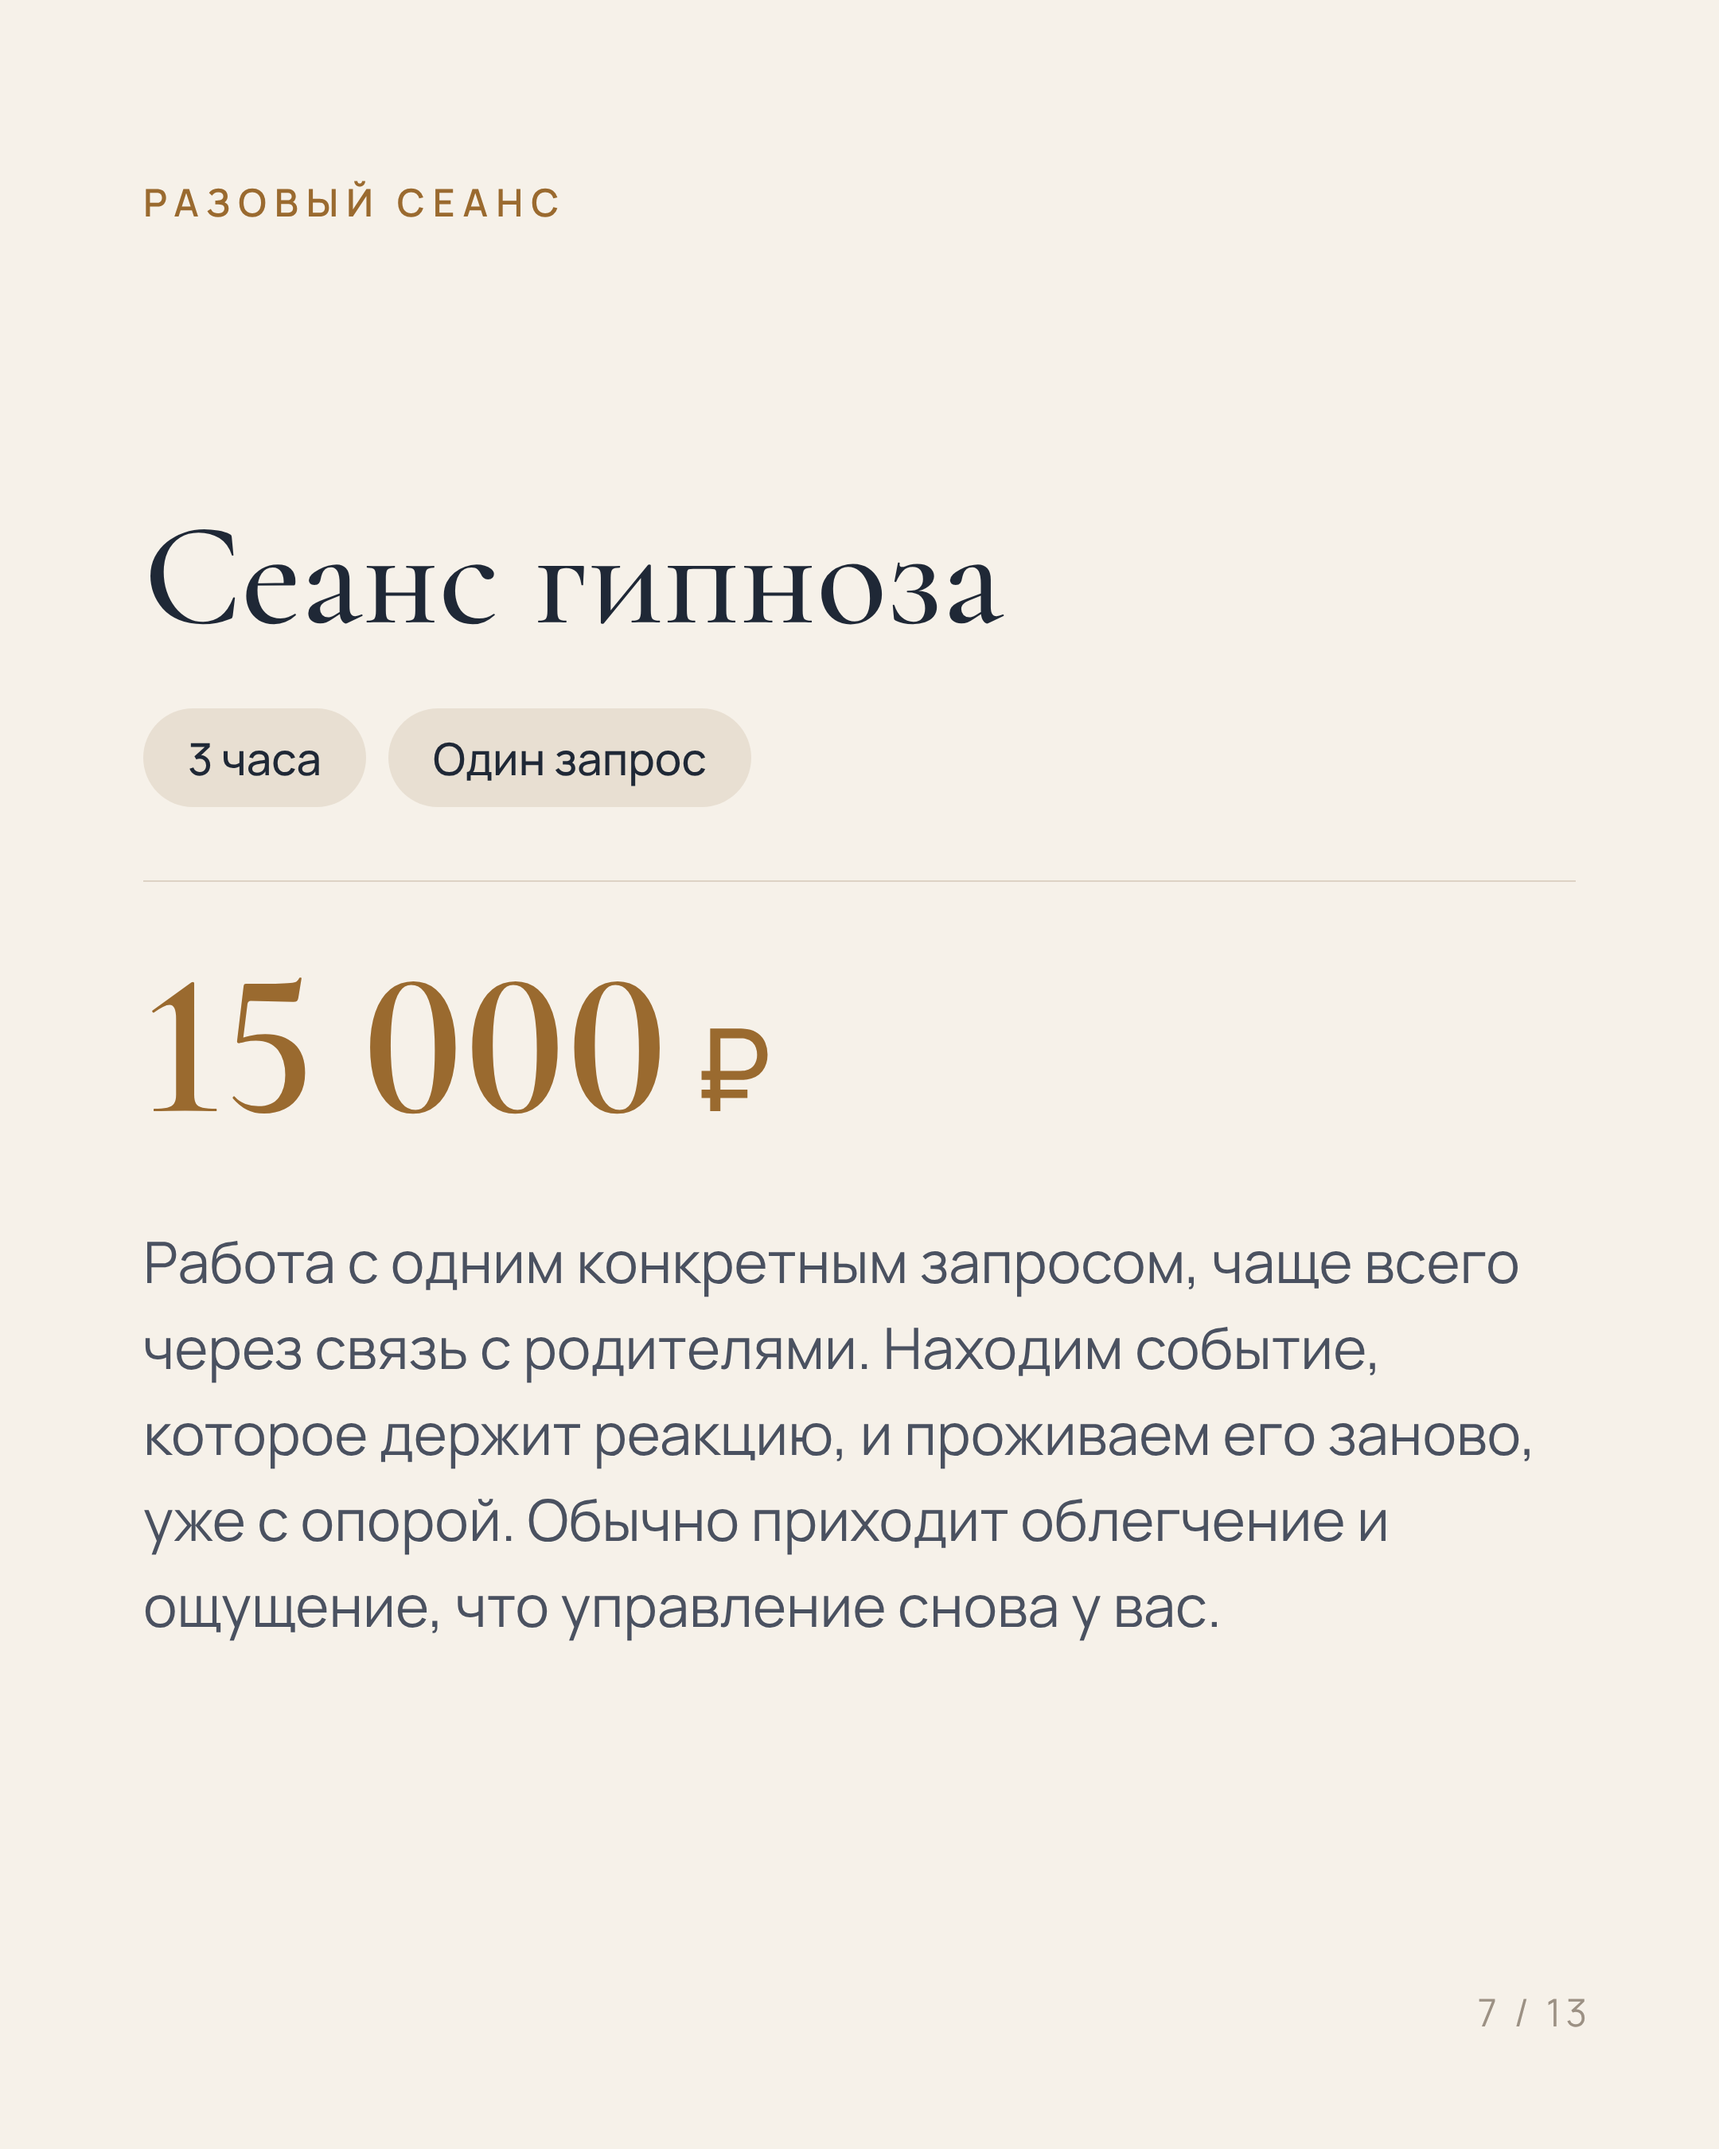
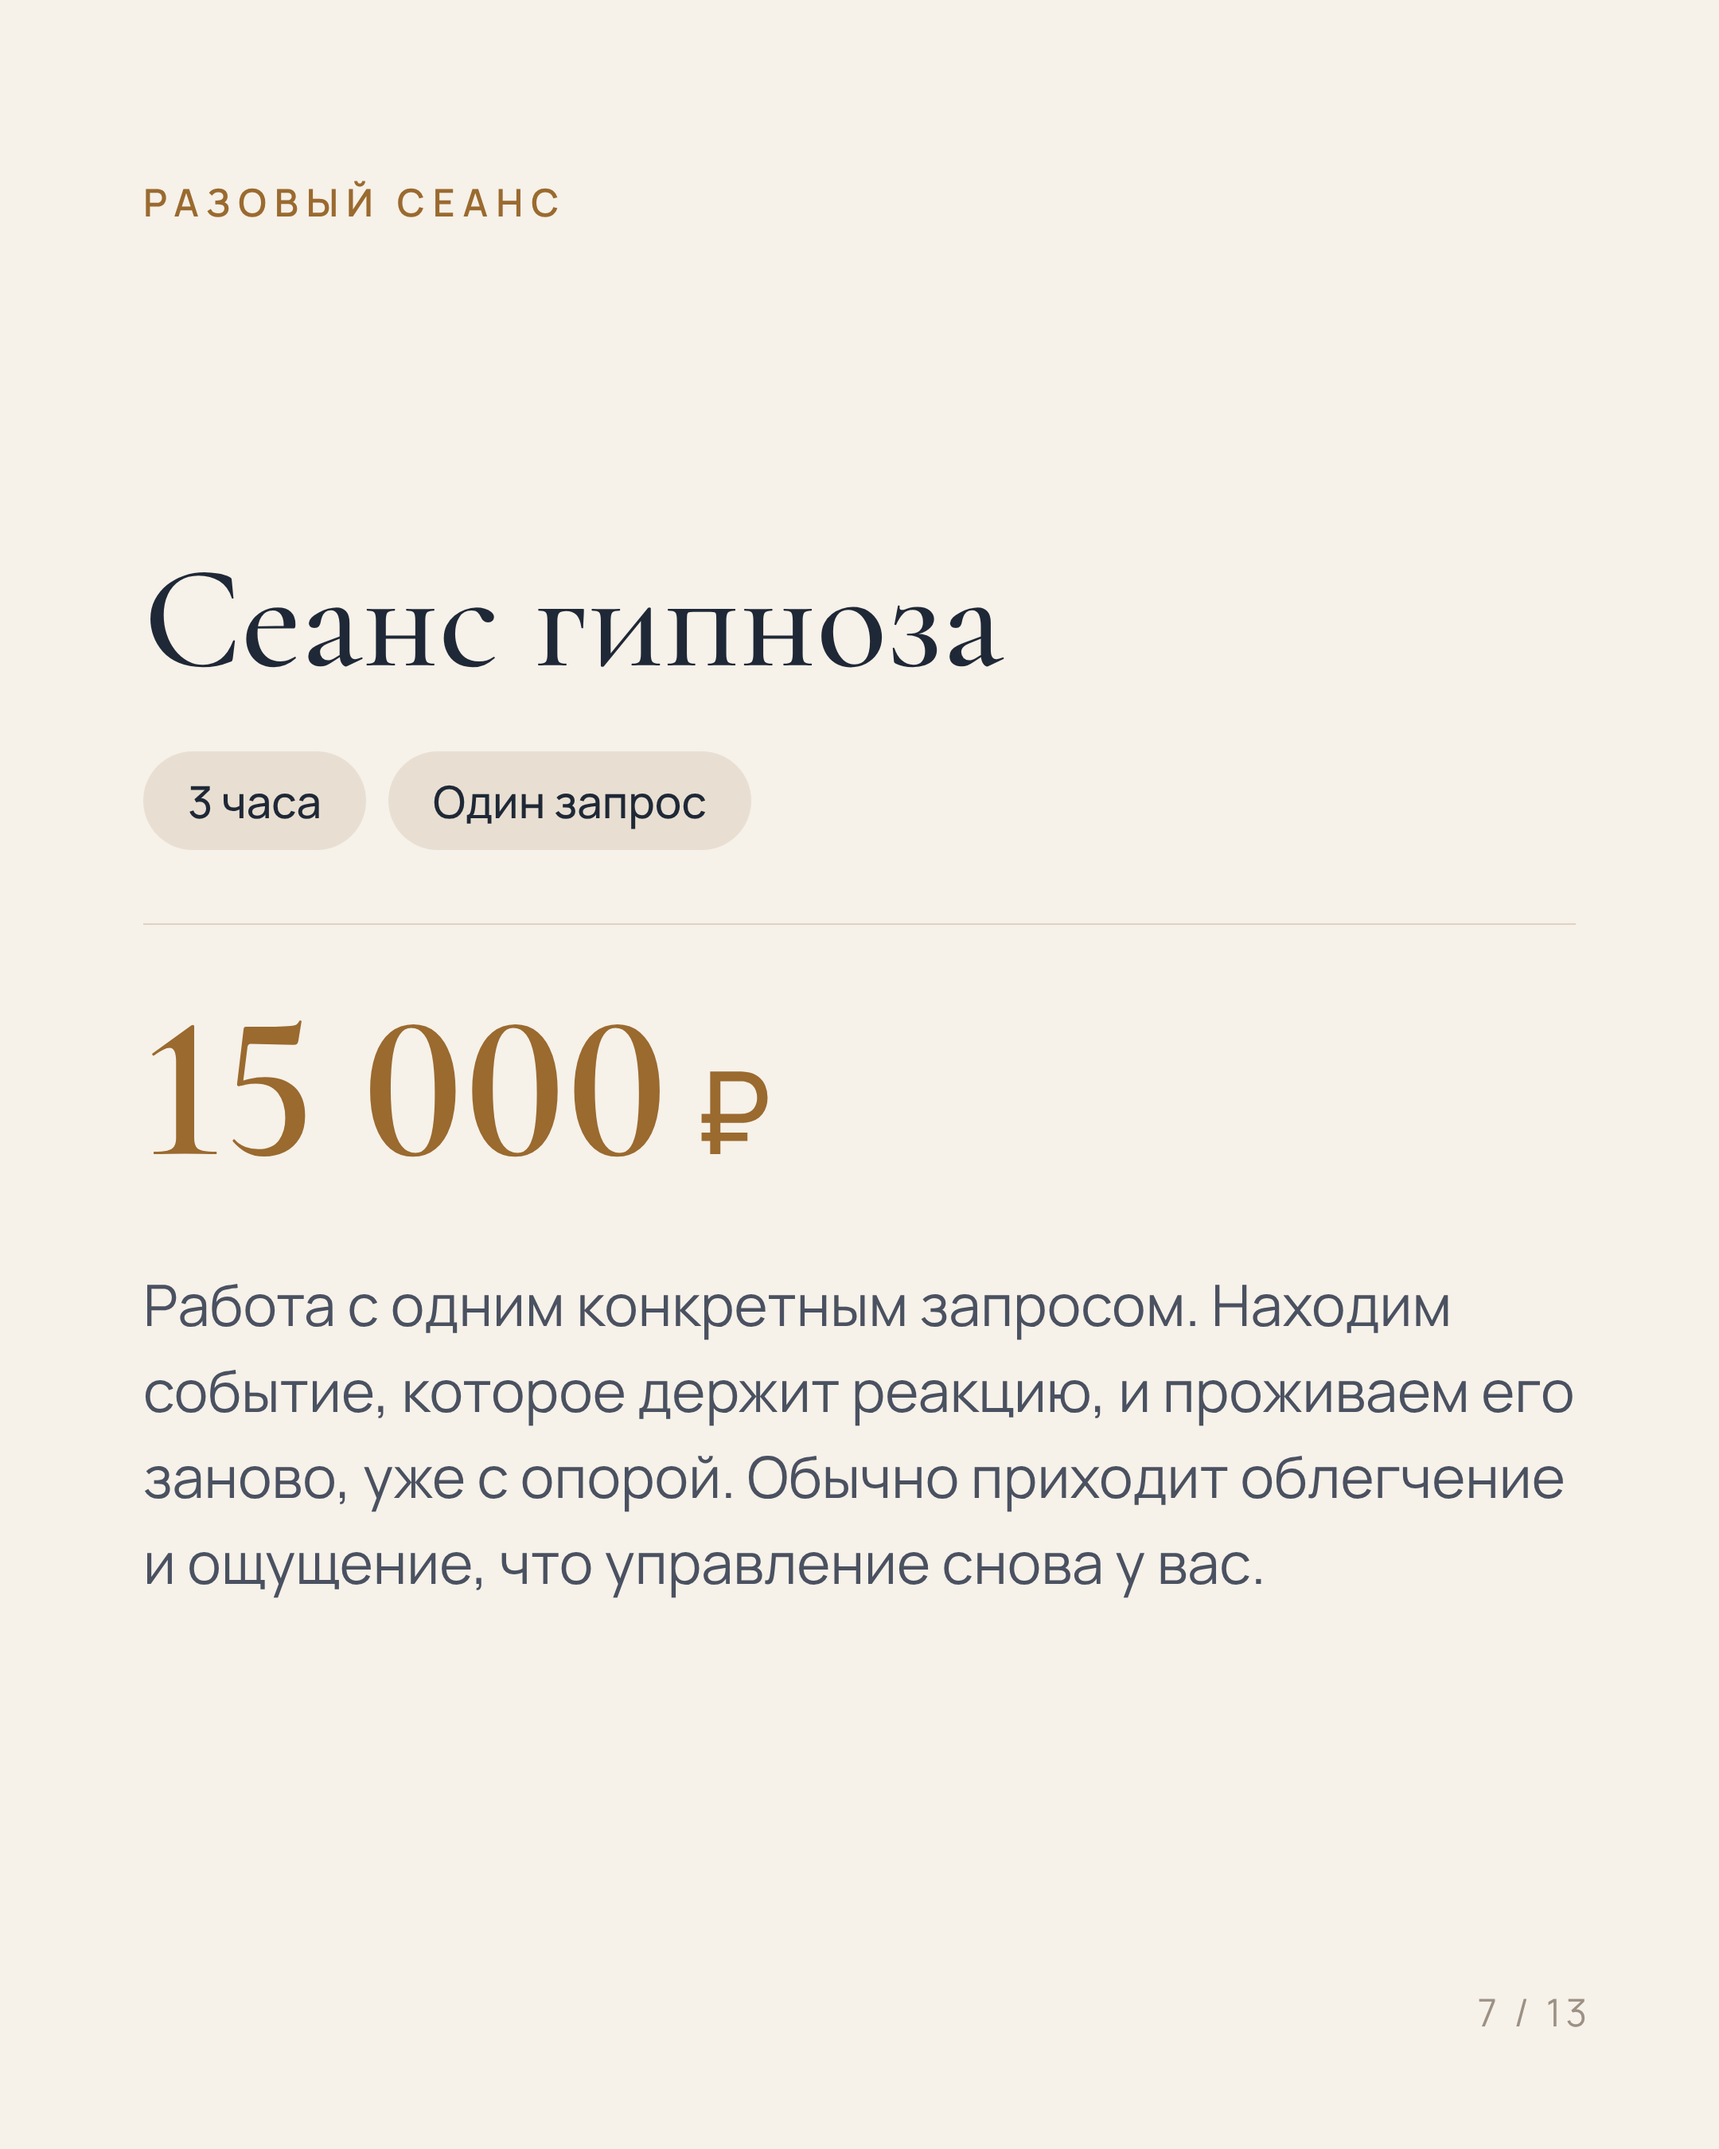
Сеанс гипноза: без упоминания родителей
Claude-Session: https://claude.ai/code/session_0184jnC38uCo5w2FiwWyrrJP

diff --git a/promo/formaty/build.js b/promo/formaty/build.js
@@ -58,7 +58,7 @@ ${[['1','Бесплатная диагностика','Тридцать мину
 <div class="num" style="font-size:128px">Бесплатно</div>
 <div class="t" style="margin-top:44px">Смотрим на ваше состояние, эмоции и тело. Становится видно, откуда растёт причина и с чего начать. Сама работа с причиной идёт уже на сеансе.</div></div>${pg(5)}</div>`,
 fmt(6,'d','Курс в записи','«Кто ведёт поезд?»',['5 видеоуроков','В своём ритме'],'5 000','Пять вагонов из детства: фундамент, травма, дефициты детства, перезагрузка, осознанность. Чтобы понять, какие детские выводы ведут ваш поезд, и вернуться в кабину машиниста.','Сейчас записываю, о старте расскажу в канале'),
-fmt(7,'l','Разовый сеанс','Сеанс гипноза',['3 часа','Один запрос'],'15 000','Работа с одним конкретным запросом, чаще всего через связь с родителями. Находим событие, которое держит реакцию, и проживаем его заново, уже с опорой. Обычно приходит облегчение и ощущение, что управление снова у вас.'),
+fmt(7,'l','Разовый сеанс','Сеанс гипноза',['3 часа','Один запрос'],'15 000','Работа с одним конкретным запросом. Находим событие, которое держит реакцию, и проживаем его заново, уже с опорой. Обычно приходит облегчение и ощущение, что управление снова у вас.'),
 fmt(8,'d','Регрессия','«Путешествие<br>к Истоку»',['4,5 часа'],'22 500','Для боли, у которой нет объяснения: там, где логика и обычная терапия упираются в стену. Работаем со сценариями, которые повторяются в роду из поколения в поколение.'),
 fmt(9,'l','Программа','«Фундамент силы»',['3 сессии по 3 часа','Поддержка между встречами'],'37 500','Детская травма, отношения с родителями, старые реакции. Цель: внутренняя опора, на которую можно встать в любой ситуации.','12 500 ₽ за сессию'),
 fmt(10,'d','Программа','«Полная пересборка<br>вашей души»',['6 сессий по 3 часа'],'72 000','Продолжение «Фундамента силы». Тревога и гнев, родовые программы, страх, который становится ресурсом, выход из сценария жертвы, карта жизни и финальная настройка.','12 000 ₽ за сессию'),

diff --git a/posts/formaty_i_stoimost.md b/posts/formaty_i_stoimost.md
@@ -31,7 +31,7 @@
 3. Как я работаю. За каждой реакцией, которая мешает жить сегодня, стоит история. Чаще всего из детства: когда-то маленький человек сделал вывод о себе и о мире, и этот вывод до сих пор ведёт поезд. Я нахожу, что скрыто за симптомом, чтобы вы жили легче и свободнее. Через тело, гипноз и регрессию, бережно и в вашем темпе.
 4. Как всё устроено. Сначала бесплатная диагностика, тридцать минут. Вместе смотрим, откуда растёт причина, и я предлагаю формат под ваш запрос. Решение остаётся за вами. Между встречами я на связи, если нужна поддержка.
 5. Диагностика. 30 минут · бесплатно. Смотрим на ваше состояние, эмоции и тело. Становится видно, откуда растёт причина и с чего начать. Сама работа с причиной идёт уже на сеансе.
-6. Сеанс гипноза. 3 часа · 15 000 ₽. Работа с одним конкретным запросом, чаще всего через связь с родителями. Находим событие, которое держит реакцию, и проживаем его заново, уже с опорой. Обычно приходит облегчение и ощущение, что управление снова у вас.
+6. Сеанс гипноза. 3 часа · 15 000 ₽. Работа с одним конкретным запросом. Находим событие, которое держит реакцию, и проживаем его заново, уже с опорой. Обычно приходит облегчение и ощущение, что управление снова у вас.
 7. «Путешествие к Истоку», регрессия. 4,5 часа · 22 500 ₽. Для боли, у которой нет объяснения: там, где логика и обычная терапия упираются в стену. Работаем со сценариями, которые повторяются в роду из поколения в поколение.
 8. «Фундамент силы». 3 сессии по 3 часа · поддержка между встречами · 37 500 ₽ (12 500 ₽ за сессию). Детская травма, отношения с родителями, старые реакции. Цель: внутренняя опора, на которую можно встать в любой ситуации.
 9. «Полная пересборка вашей души». 6 сессий по 3 часа · 72 000 ₽ (12 000 ₽ за сессию). Продолжение «Фундамента силы». Тревога и гнев, родовые программы, страх, который становится ресурсом, выход из сценария жертвы, карта жизни и финальная настройка.

diff --git a/posts/formaty_post_podrobno.md b/posts/formaty_post_podrobno.md
@@ -26,7 +26,7 @@
 
 **Сеанс гипноза, 3 часа, 15 000 ₽**
 
-Один конкретный запрос. Чаще всего путь к нему лежит через связь с родителями: в трансе мы заходим в «комнату мамы» или «комнату папы», находим событие, которое держит реакцию, и проживаем его заново. Три часа нужны, чтобы спокойно войти, сделать работу и бережно выйти.
+Один конкретный запрос. В трансе мы находим событие, которое держит реакцию, и проживаем его заново, уже с опорой. Три часа нужны, чтобы спокойно войти, сделать работу и бережно выйти.
 
 Клиентка Анна написала мне после сессии: «Я думала, что застряла навсегда. После сессии с Викой впервые за годы почувствовала: я могу дышать. И действовать».
 
